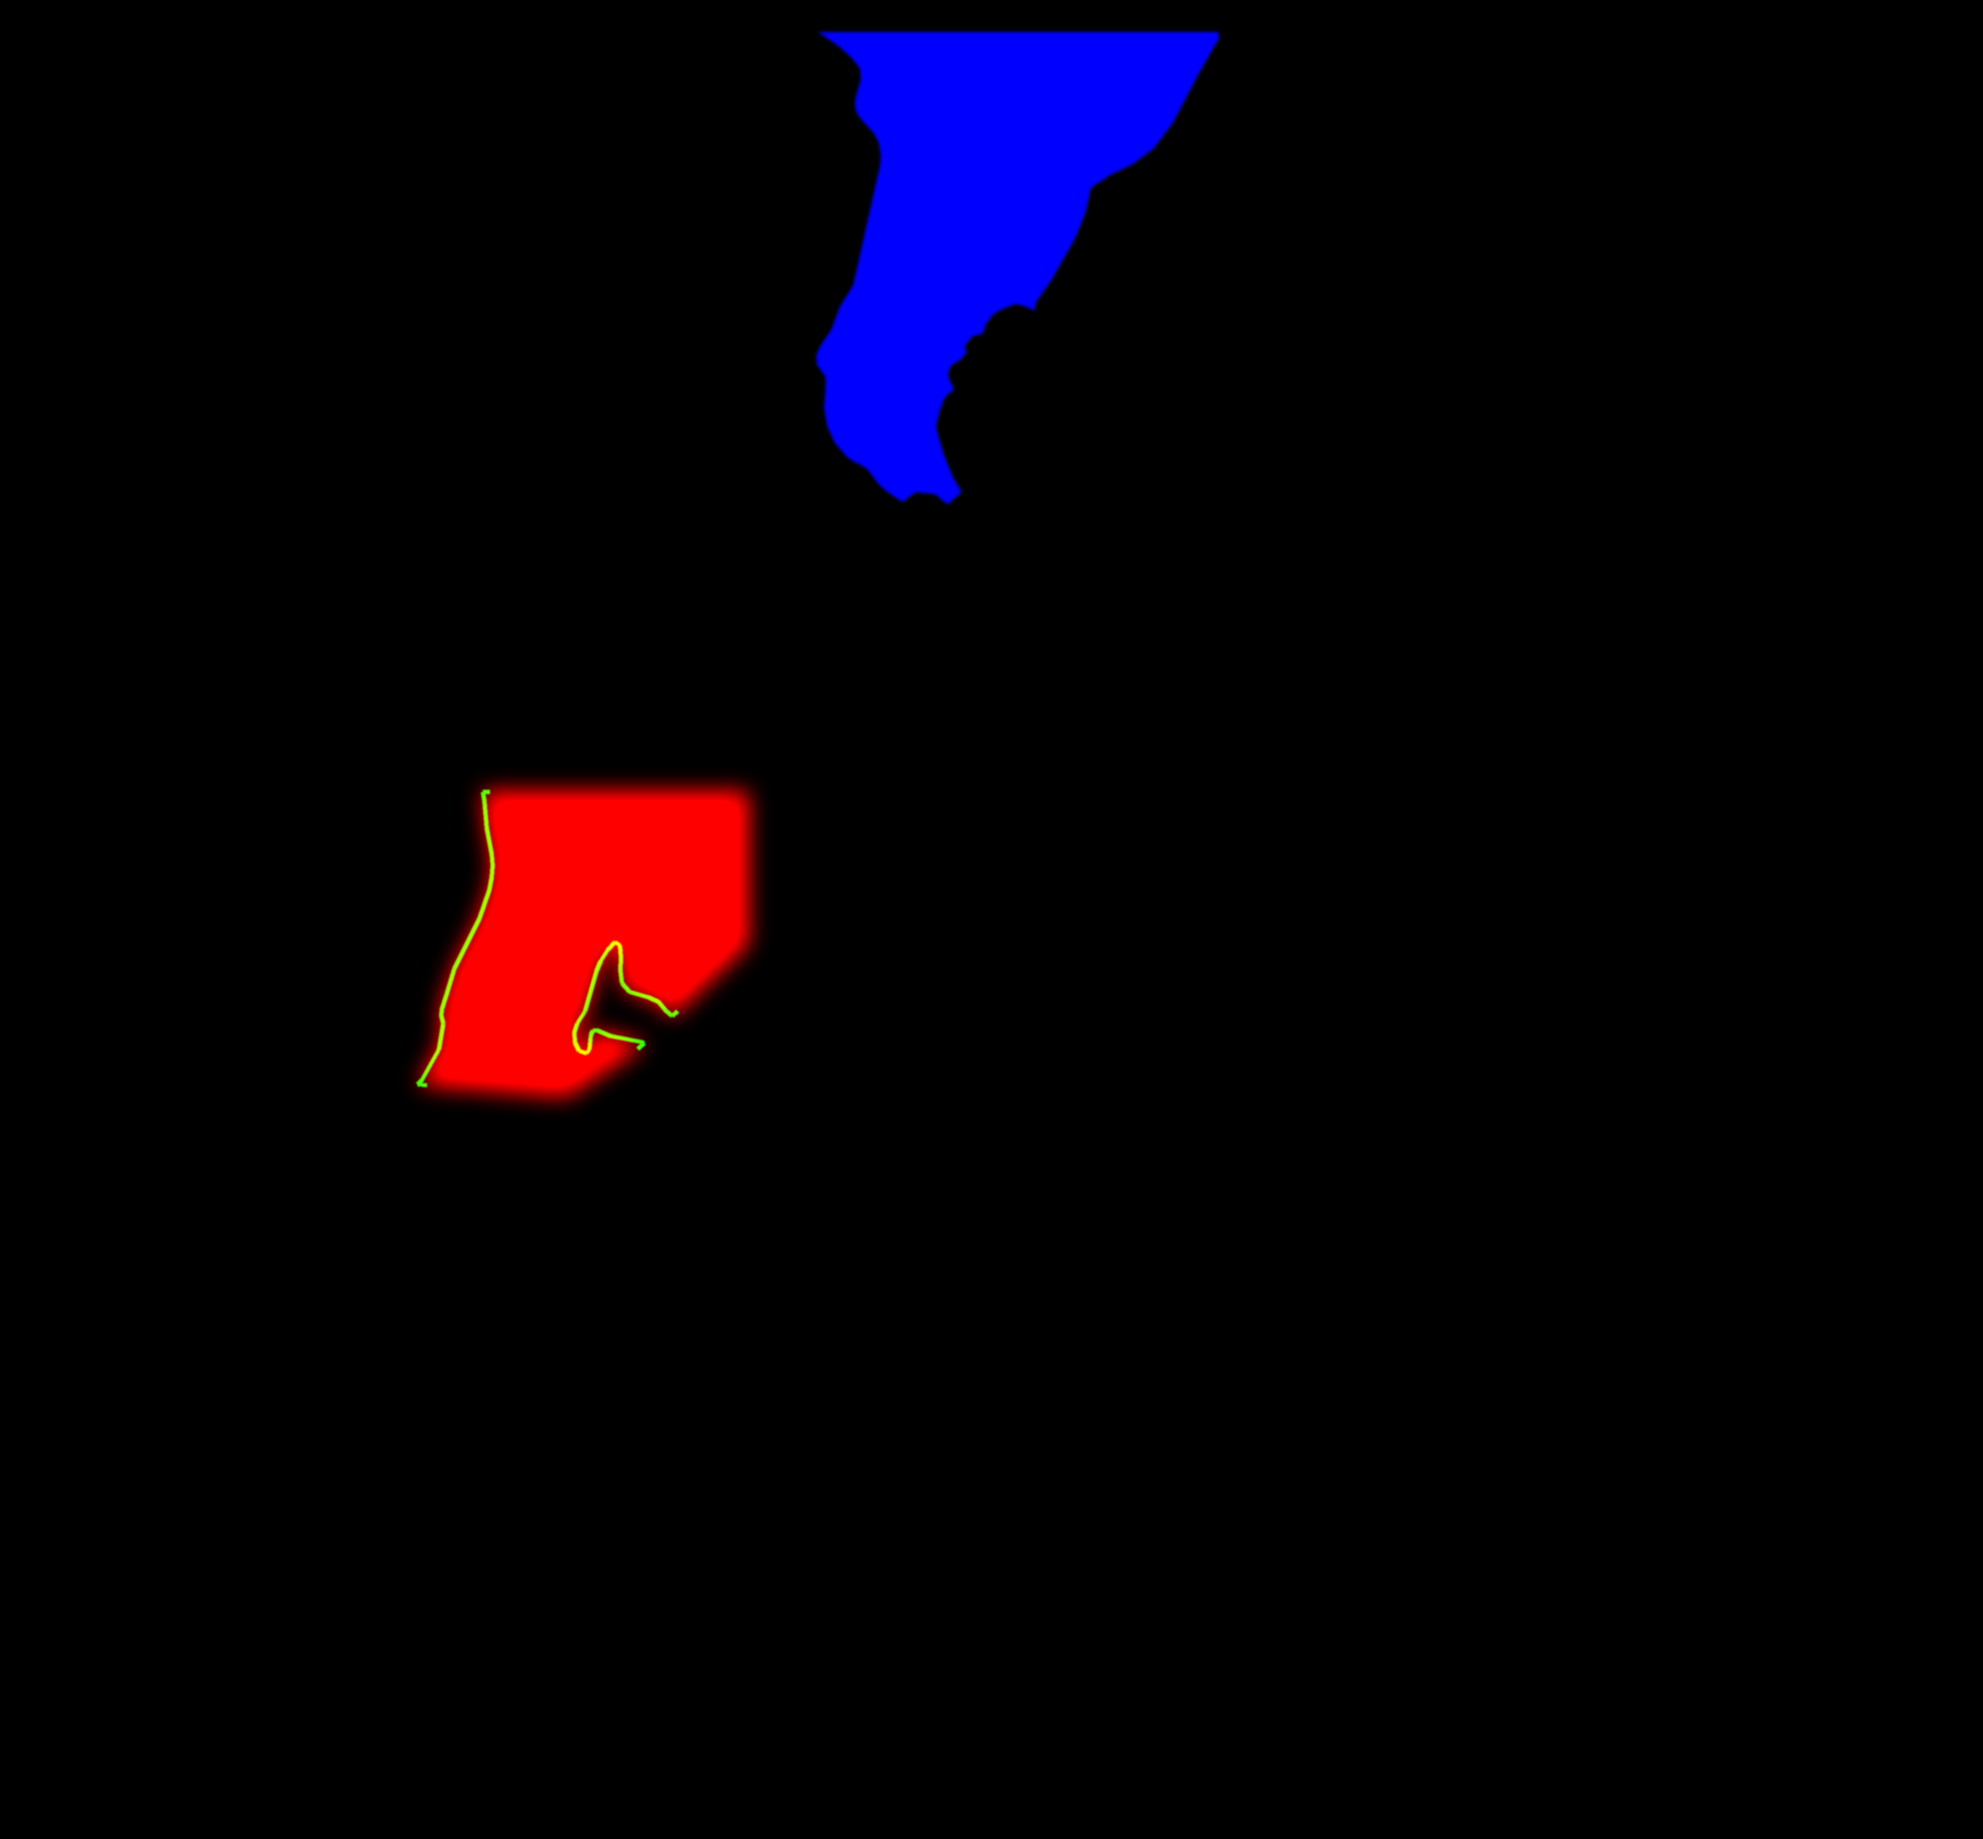
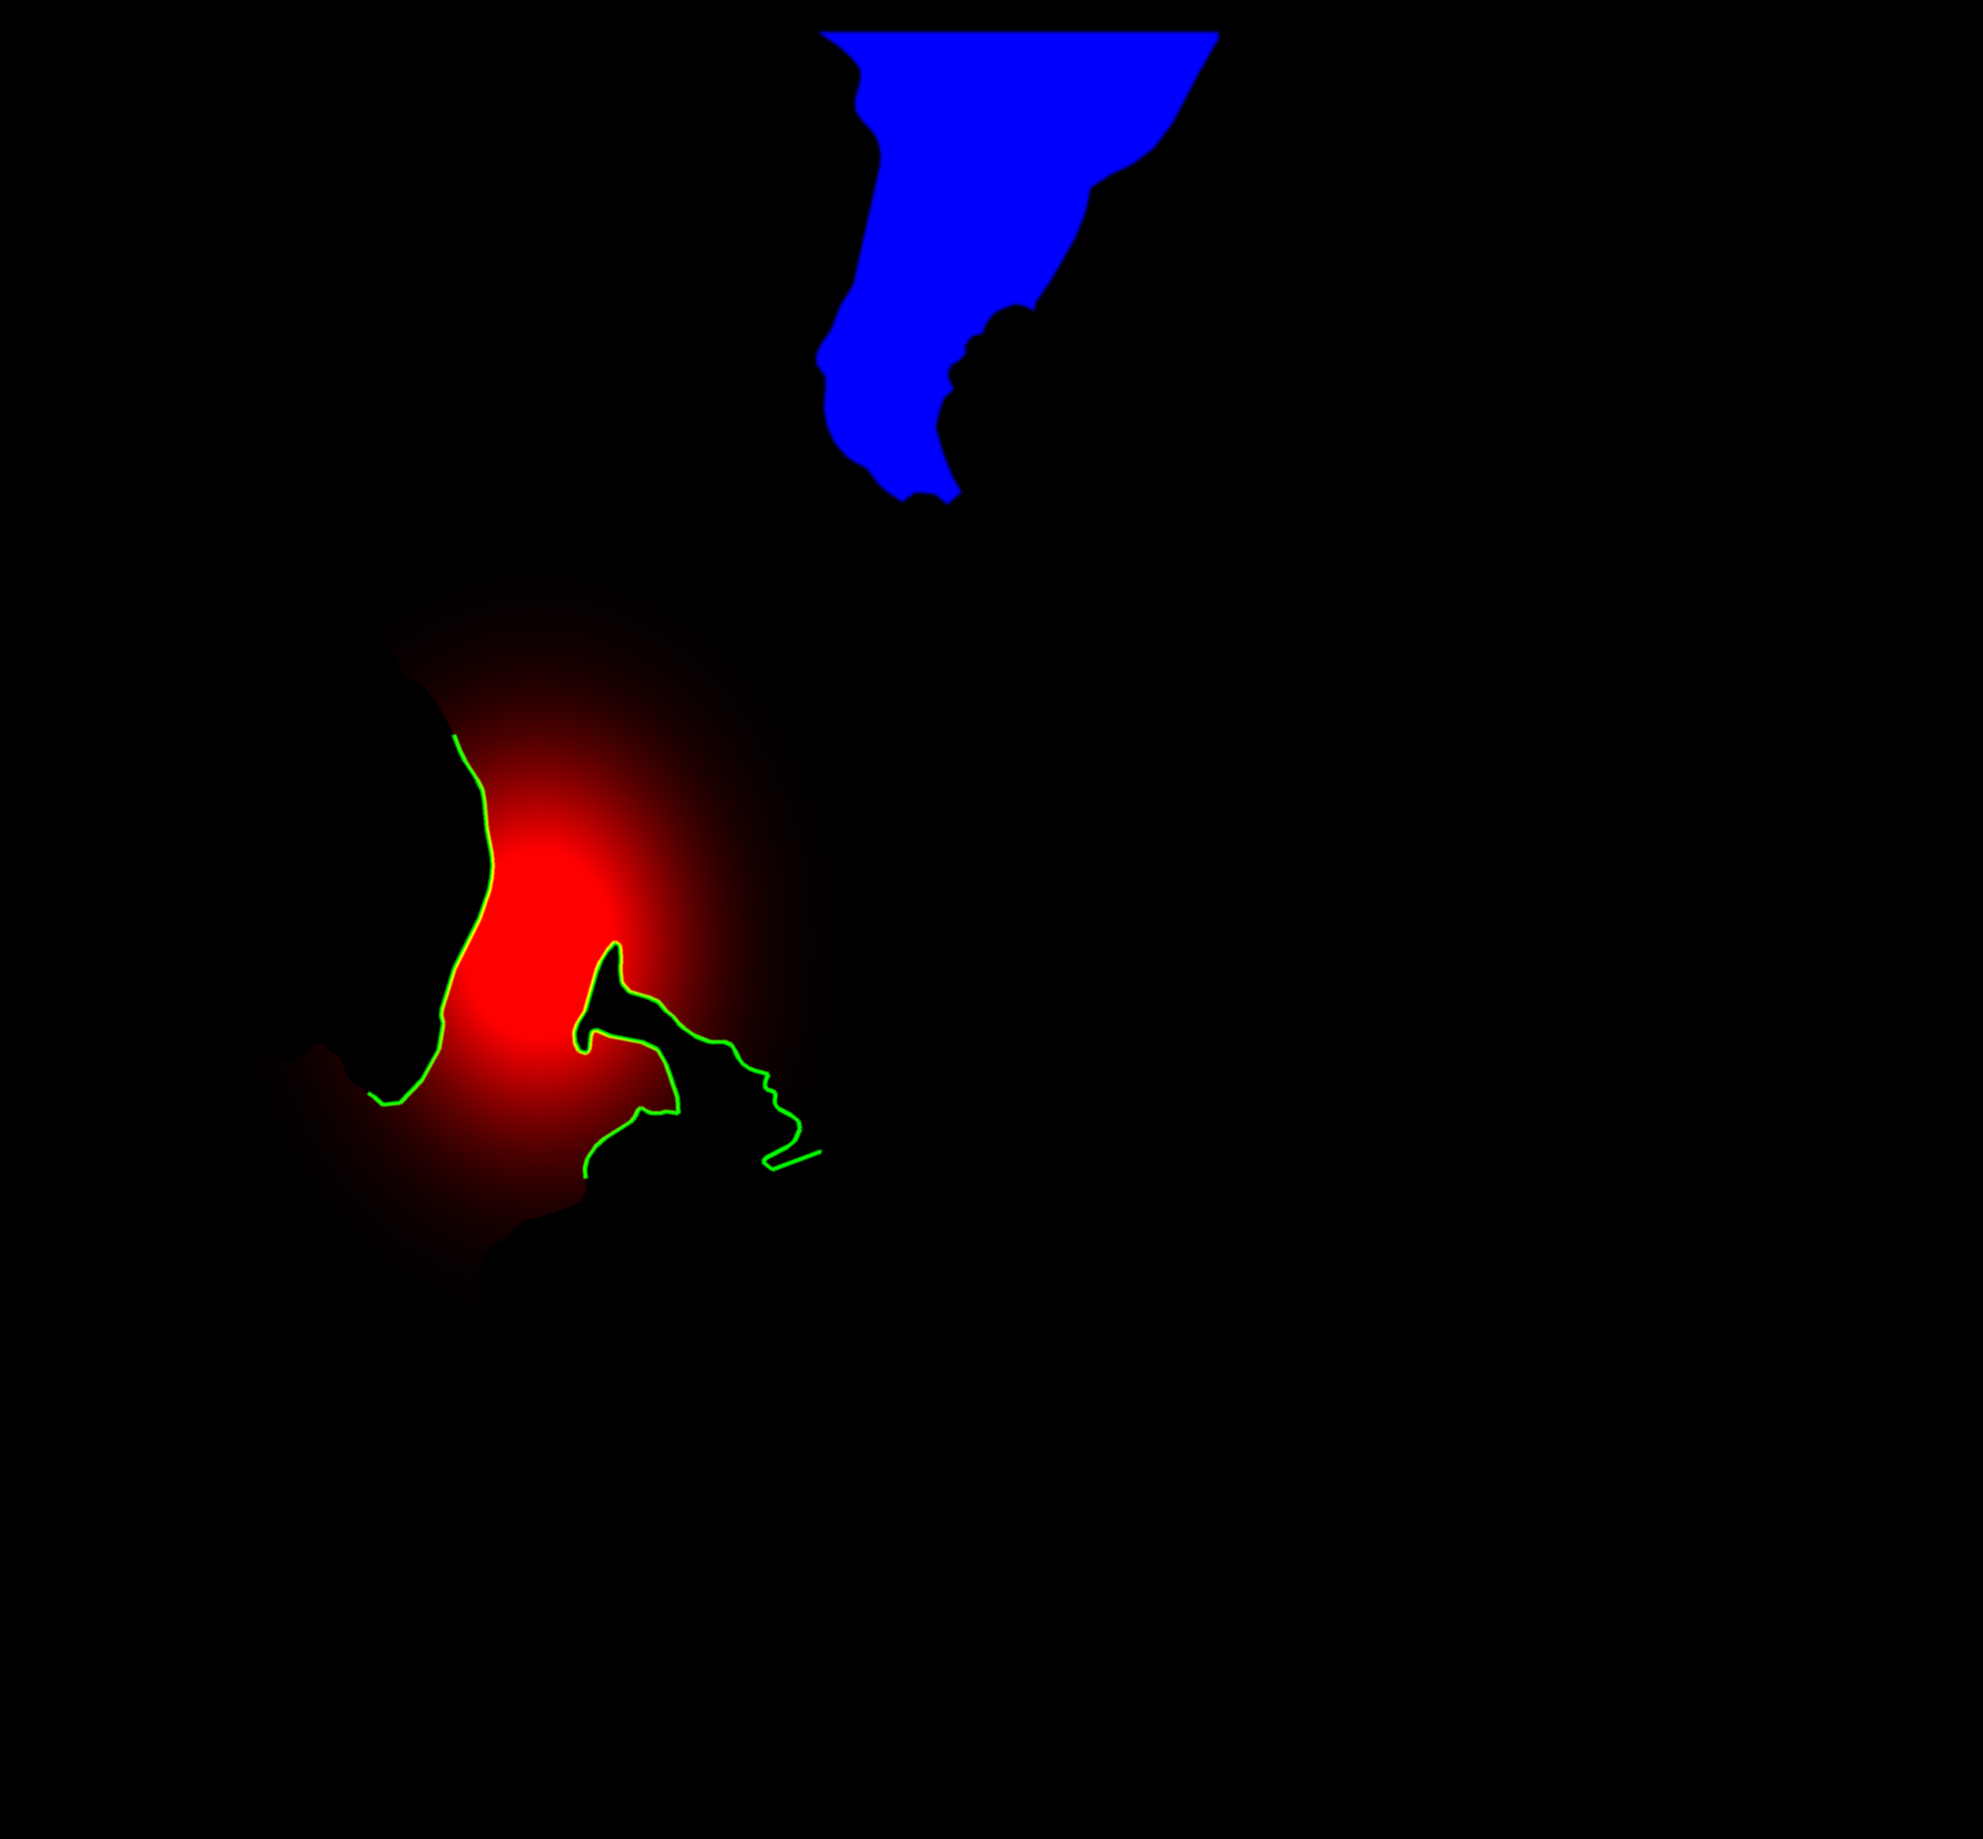
Siliguri v2: organic corridor glow, border walls, framing fixes, cover and upload kit
Claude-Session: https://claude.ai/code/session_01DMZ7CFPTajKZajZsT4vn8D

Changed region(s): [[0.1562, 0.3418, 0.4062, 0.6835], [0.375, 0.5903, 0.4062, 0.6524]]

diff --git a/src/siliguri2/edit/Cover.tsx b/src/siliguri2/edit/Cover.tsx
@@ -1,0 +1,43 @@
+import React from 'react';
+import { AbsoluteFill, Composition, registerRoot } from 'remotion';
+import { camS } from './cam';
+import { Big, COL, FOCAL, Prop, TerritoryTag } from './Kit';
+import { UI, useFonts } from './font';
+import { M, P3, Terrain, groundXZ, project, useHeights, xz } from './Terrain';
+
+/** The thumbnail (YouTube + Instagram): the 3D map, China red above, the corridor glowing between Nepal and Bangladesh,
+ * China's army in the Chumbi Valley, the 22 km bar, and "सिर्फ़ 22 KM" in the top third (inside the 3:4 crop). */
+const SgCover: React.FC = () => {
+  useFonts();
+  const h = useHeights();
+  if (!h) return <AbsoluteFill style={{ background: '#0d1a22' }} />;
+  const ck = { lon: 88.62, lat: 27.0, d: 760, pitch: 60, head: 3 };
+  const [lx, lz] = xz(ck.lon, ck.lat);
+  const cs = camS(ck, Math.min(1.5, Math.max(0, groundXZ(h, lx, lz))));
+  const pr = (lon: number, lat: number, up = 0) => project(cs, 1080, 1920, P3(h, lon, lat, up));
+  const g0 = pr(M.gap[0][0], M.gap[0][1], 0.3), g1 = pr(M.gap[1][0], M.gap[1][1], 0.3);
+  const ch = pr(89.4, 28.1, 1), bd = pr(89.25, 25.75, 0.5), am = pr(88.93, 27.47);
+  return (
+    <AbsoluteFill style={{ background: '#0d1a22' }}>
+      <AbsoluteFill style={{ filter: 'saturate(1.12) contrast(1.08)' }}>
+        <Terrain h={h} cam={cs} width={1080} height={1920} hl={{ corr: 1, corrRed: 0.7, corrLine: 1, chumbi: 0.9, pulse: 1 }} />
+      </AbsoluteFill>
+      <AbsoluteFill style={{ background: 'radial-gradient(ellipse at 50% 50%, rgba(0,0,0,0) 50%, rgba(0,0,0,0.55) 100%)' }} />
+      <AbsoluteFill style={{ background: 'linear-gradient(180deg, rgba(0,0,0,0.55), rgba(0,0,0,0) 30%)' }} />
+      {am[2] && <Prop k="a_china_armour" x={am[0]} y={am[1]} w={(90 * FOCAL) / am[3]} ring={COL.red} />}
+      {ch[2] && <TerritoryTag x={250} y={600} flag="china" hi="चीन" en="CHINA" s={1.05} />}
+      {bd[2] && <TerritoryTag x={bd[0]} y={bd[1]} flag="bangladesh" hi="बांग्लादेश" en="BANGLADESH" s={1.0} />}
+      <svg width={1080} height={1920} style={{ position: 'absolute', left: 0, top: 0 }}>
+        <line x1={g0[0]} y1={g0[1]} x2={g1[0]} y2={g1[1]} stroke="#000" strokeOpacity={0.5} strokeWidth={18} />
+        <line x1={g0[0]} y1={g0[1]} x2={g1[0]} y2={g1[1]} stroke="#fff" strokeWidth={9} />
+      </svg>
+      <div style={{ position: 'absolute', left: 0, right: 0, top: 250, textAlign: 'center' }}>
+        <div><Big text={<span style={{ fontFamily: UI }}>सिर्फ़</span>} size={130} color="#fff" glow={COL.orange} /></div>
+        <div style={{ marginTop: -10 }}><Big text="22 KM!" size={250} color="#FFD23A" glow={COL.orange} /></div>
+      </div>
+    </AbsoluteFill>
+  );
+};
+
+const CoverRoot: React.FC = () => <Composition id="SgCover" component={SgCover} durationInFrames={1} fps={30} width={1080} height={1920} />;
+registerRoot(CoverRoot);

diff --git a/src/siliguri2/edit/cam.ts b/src/siliguri2/edit/cam.ts
@@ -29,8 +29,8 @@ const keys = (): Key[] => [
   k(C.army1 + 0.45, 88.85, 27.45, 160, 42, 8, linear),
   k(C.sili + 0.35, 88.36, 26.62, 140, 56, -4),
   k(C.neck + 0.3, 88.38, 26.66, 120, 56, -2, linear),
-  k(C.ne1 + 0.6, 91.6, 25.6, 720, 66, 2),
-  k(C.crore + 0.5, 91.8, 25.7, 680, 66, 2, linear),
+  k(C.ne1 + 0.6, 91.5, 25.5, 620, 61, 2),
+  k(C.crore + 0.5, 91.7, 25.6, 590, 61, 2, linear),
   k(C.jude - 0.6, 89.4, 26.4, 520, 54, 0),
   k(C.jude + 0.2, 89.2, 26.45, 480, 54, 0, linear),
   k(C.sikkim + 0.1, 88.85, 27.25, 240, 44, 8),

diff --git a/tools/build_siliguri2_3d.py b/tools/build_siliguri2_3d.py
@@ -252,12 +252,23 @@ def main() -> None:
     corridor = max(corridor.geoms, key=lambda g: g.area) if hasattr(corridor, "geoms") else corridor
     chumbi = china.intersection(box(88.55, 27.0, 89.45, 28.05))
     chumbi = max(chumbi.geoms, key=lambda g: g.area) if hasattr(chumbi, "geoms") else chumbi
+    zone = box(87.9, 26.2, 88.7, 26.9)
+    pn, pb = nearest_points(nepal.intersection(zone), bang.intersection(zone))
     DW = 4096
     DH = round(DW * (bd[3] - bd[1]) / (bd[2] - bd[0]))
     # the corridor: a soft glow, and its two real walls (the Nepal and Bangladesh borders) as lines
-    walls = unary_union([corridor.boundary.intersection(nepal.buffer(0.012)), corridor.boundary.intersection(bang.buffer(0.012))])
+    neck = box(87.95, 26.25, 88.75, 26.95)
+    walls = unary_union([india.boundary.intersection(nepal.buffer(0.012)).intersection(neck), india.boundary.intersection(bang.buffer(0.012)).intersection(neck)])
     wl = [g for g in (walls.geoms if hasattr(walls, "geoms") else [walls]) if g.geom_type == "LineString"]
-    soft = np.clip(raster([corridor], bd, DW, DH, 22) * 1.25, 0, 1)
+    # a soft glow centred on the narrowest point: India only (so it stops hard at the real borders), fading out north
+    # and south instead of ending on a drawn line
+    mid = ((pn.x + pb.x) / 2, (pn.y + pb.y) / 2)
+    ind_d = raster([india], bd, DW, DH, 1.0)
+    gxx = np.linspace(DET[0], DET[1], DW)[None, :]
+    gyy = np.array([ilat(v) for v in np.linspace(bd[3], bd[1], DH)])[:, None]
+    ex = ((gxx - mid[0]) * 111.32 * math.cos(math.radians(mid[1]))) / 24.0
+    ey = ((gyy - mid[1]) * 110.57) / 30.0
+    soft = np.clip(np.exp(-(ex ** 2 + ey ** 2)) * 1.35, 0, 1) * ind_d
     reg = np.stack([soft, raster(wl, bd, DW, DH, 1.5, line=9), raster([chumbi], bd, DW, DH, 3)], -1)
     Image.fromarray((reg * 255).astype(np.uint8)).save(OUT / "det_regions.png")
     WW = 4096
@@ -271,8 +282,6 @@ def main() -> None:
     Image.fromarray((reg2 * 255).astype(np.uint8)).save(OUT / "wide_regions.png")
 
     # the narrowest crossing: Nepal to Bangladesh across the corridor
-    zone = box(87.9, 26.2, 88.7, 26.9)
-    pn, pb = nearest_points(nepal.intersection(zone), bang.intersection(zone))
     gap_km = math.hypot((pn.x - pb.x) * 111.32 * math.cos(math.radians(pn.y)), (pn.y - pb.y) * 110.57)
     cen = corridor.centroid
     meta = {"wide": WIDE, "det": DET, "bw": bw, "bd": bd, "scale": scale, "vex": VEX,

diff --git a/exports/siliguri2_upload_kit.md b/exports/siliguri2_upload_kit.md
@@ -1,0 +1,104 @@
+# Siliguri Corridor v2 (Chicken's Neck): upload kit
+
+**Upload file:** `siliguri2_4k60_master.mp4`
+- 4K 60 fps, 2160×3840, 4,200 frames, 1:10; in the repo through Git LFS.
+- The VO runs at 1.15×, as the creator asked.
+- Raw link: https://github.com/sameerpotdar120-afk/remotion-video-studio/raw/ccr-38fc62dc-jjdmrk/exports/siliguri2_4k60_master.mp4
+
+**Thumbnail:** `siliguri2_thumbnail.jpg` (1080×1920) and `siliguri2_thumbnail_4k.jpg` (2160×3840), one for YouTube and
+Instagram.
+- The picture: the 3D map, with China red above, the corridor glowing between Nepal and Bangladesh, and "सिर्फ़ 22 KM"
+  in the top third.
+- It sits inside the 3:4 crop and pairs with title 1 without repeating its words.
+
+**The loop:** the video ends on "और जब कोई पूछे कि एक पतली सी पट्टी के लिए इतनी तैयारी क्यों, तो बस इतना कहना…" and runs
+into "तुम दार्जिलिंग जाओ या गुवाहाटी…". The clouds close over the map and open again, and the last frame matches frame 0.
+There is no end card and no CTA.
+
+## Search queries this should win
+
+1. `siliguri corridor` / `chicken's neck india` / `siliguri corridor in hindi`
+2. `doklam standoff` / `chumbi valley` / `lalmonirhat airbase`
+3. `greater bangladesh map` / `india china bangladesh border` / `siliguri corridor army`
+
+The title and the first two description lines carry: Siliguri Corridor, Chicken's Neck, Darjeeling, Northeast, China,
+Bangladesh, Doklam.
+
+## YouTube
+
+**Title**
+```
+Darjeeling जाने वाले ये बात नहीं जानते 😳 | Siliguri Corridor (Chicken's Neck)
+```
+
+Backup titles:
+```
+ऊपर China, नीचे Bangladesh: भारत का Chicken's Neck 🇮🇳
+भारत की सबसे पतली गर्दन अब किला है | Siliguri Corridor
+```
+
+**Description**
+```
+Darjeeling हो या Guwahati, Northeast का हर ज़मीनी रास्ता Siliguri Corridor की सिर्फ़ करीब 22 km चौड़ी पट्टी से गुज़रता है। इसे भारत का Chicken's Neck कहते हैं।
+ऊपर China की Chumbi Valley और Doklam, नीचे Bangladesh का Lalmonirhat airbase, और बीच में भारत का जवाब: Siliguri Corridor in Hindi, एक Short में।
+
+इस Short में:
+📏 सबसे पतली जगह: करीब 22 km
+🗺 Northeast के 8 राज्य, करीब 4.5 करोड़ लोग
+🏔 Chumbi Valley और Doklam 2017: 73 दिन का standoff
+🛫 Lalmonirhat: World War के ज़माने का airbase, 2025 में फिर से चर्चा में
+🗺 "Greater Bangladesh" map: ढाका के एक group का, Rajya Sabha में सवाल (1 Aug 2025)
+✈ Hasimara में Rafale, रिपोर्ट्स के मुताबिक़ S-400, Army के 3 नए garrison: Bamuni, Kishanganj, Chopra
+
+#SiliguriCorridor #ChickensNeck #Northeast #IndiaChina #Shorts
+
+---
+Satellite: Sentinel-2 cloudless 2024 by EOX IT Services GmbH (s2maps.eu), contains modified Copernicus Sentinel data, CC BY 4.0.
+Relief: AWS Terrain Tiles (Mapzen terrarium; SRTM/NASA), open data. Borders and rivers: Natural Earth (India point-of-view edition; public domain). Routes and the S-400 ring are illustrative.
+3D props are the creator's own (AI-generated); host "Null" is an AI-generated character; the voiceover is AI-generated.
+Music: "Epical Drums 06" (Mixkit free licence). Sound effects: Sonniss GDC Game Audio Bundle.
+```
+
+**Tags** (15)
+```
+siliguri corridor, chicken's neck, chickens neck india, siliguri corridor in hindi, doklam standoff, chumbi valley, lalmonirhat airbase, greater bangladesh map, northeast india, india china border, india bangladesh border, hasimara rafale, s400 india, geopolitics in hindi, null dynasty
+```
+
+**Settings:** set "Altered or synthetic content" to **Yes** (AI voice, host Null, AI props).
+
+**Pinned comment**
+```
+आप Darjeeling या Northeast गए हो? 🏔 उस रास्ते पर ये पट्टी कभी नोटिस की? 👇
+```
+
+## Instagram Reel
+
+**Caption**
+```
+Darjeeling हो या Guwahati, रास्ता इसी 22 km की पट्टी से गुज़रता है 😳
+ऊपर China, नीचे Bangladesh, और बीच में भारत का Chicken's Neck 🇮🇳
+
+Doklam 2017 · Lalmonirhat · Rafale · 3 नए garrison
+ये पतली गर्दन अब किला है 🛡
+
+Northeast गए हो? Comment करो 👇
+ये reel उस दोस्त को भेजो जो अगली trip Darjeeling की plan कर रहा है 📩
+
+#SiliguriCorridor #ChickensNeck #Northeast #IndiaChina #Geopolitics #MapFacts #NullDynasty
+
+Satellite: EOX Sentinel-2 cloudless (CC BY 4.0). Relief: AWS Terrain Tiles (SRTM/NASA). Borders: Natural Earth (India POV). Props, host and voice AI. Music: Mixkit "Epical Drums 06". SFX: Sonniss.
+```
+Turn on Instagram's "AI info" label in Advanced settings.
+
+## Fact notes
+
+See `public/siliguri2/script_draft.md` and `reference_analysis.md` (checked 18 November 2026, with sources):
+- About 22 km at the narrowest point. The map build measures 22.5 km from the Nepal border to the Bangladesh border.
+- The 8 Northeast states, about 4.5 crore people.
+- Doklam: 16 June to 28 August 2017, 73 days.
+- Lalmonirhat: a 1931 airfield; its revival was announced in 2025.
+- The "Greater Bangladesh" map came from a Dhaka group, not the government. It was the subject of a Rajya Sabha reply
+  on 1 August 2025.
+- No. 101 Squadron has flown Rafales at Hasimara since 2021.
+- S-400: reported, not official.
+- Three garrisons were reported in November 2025.
